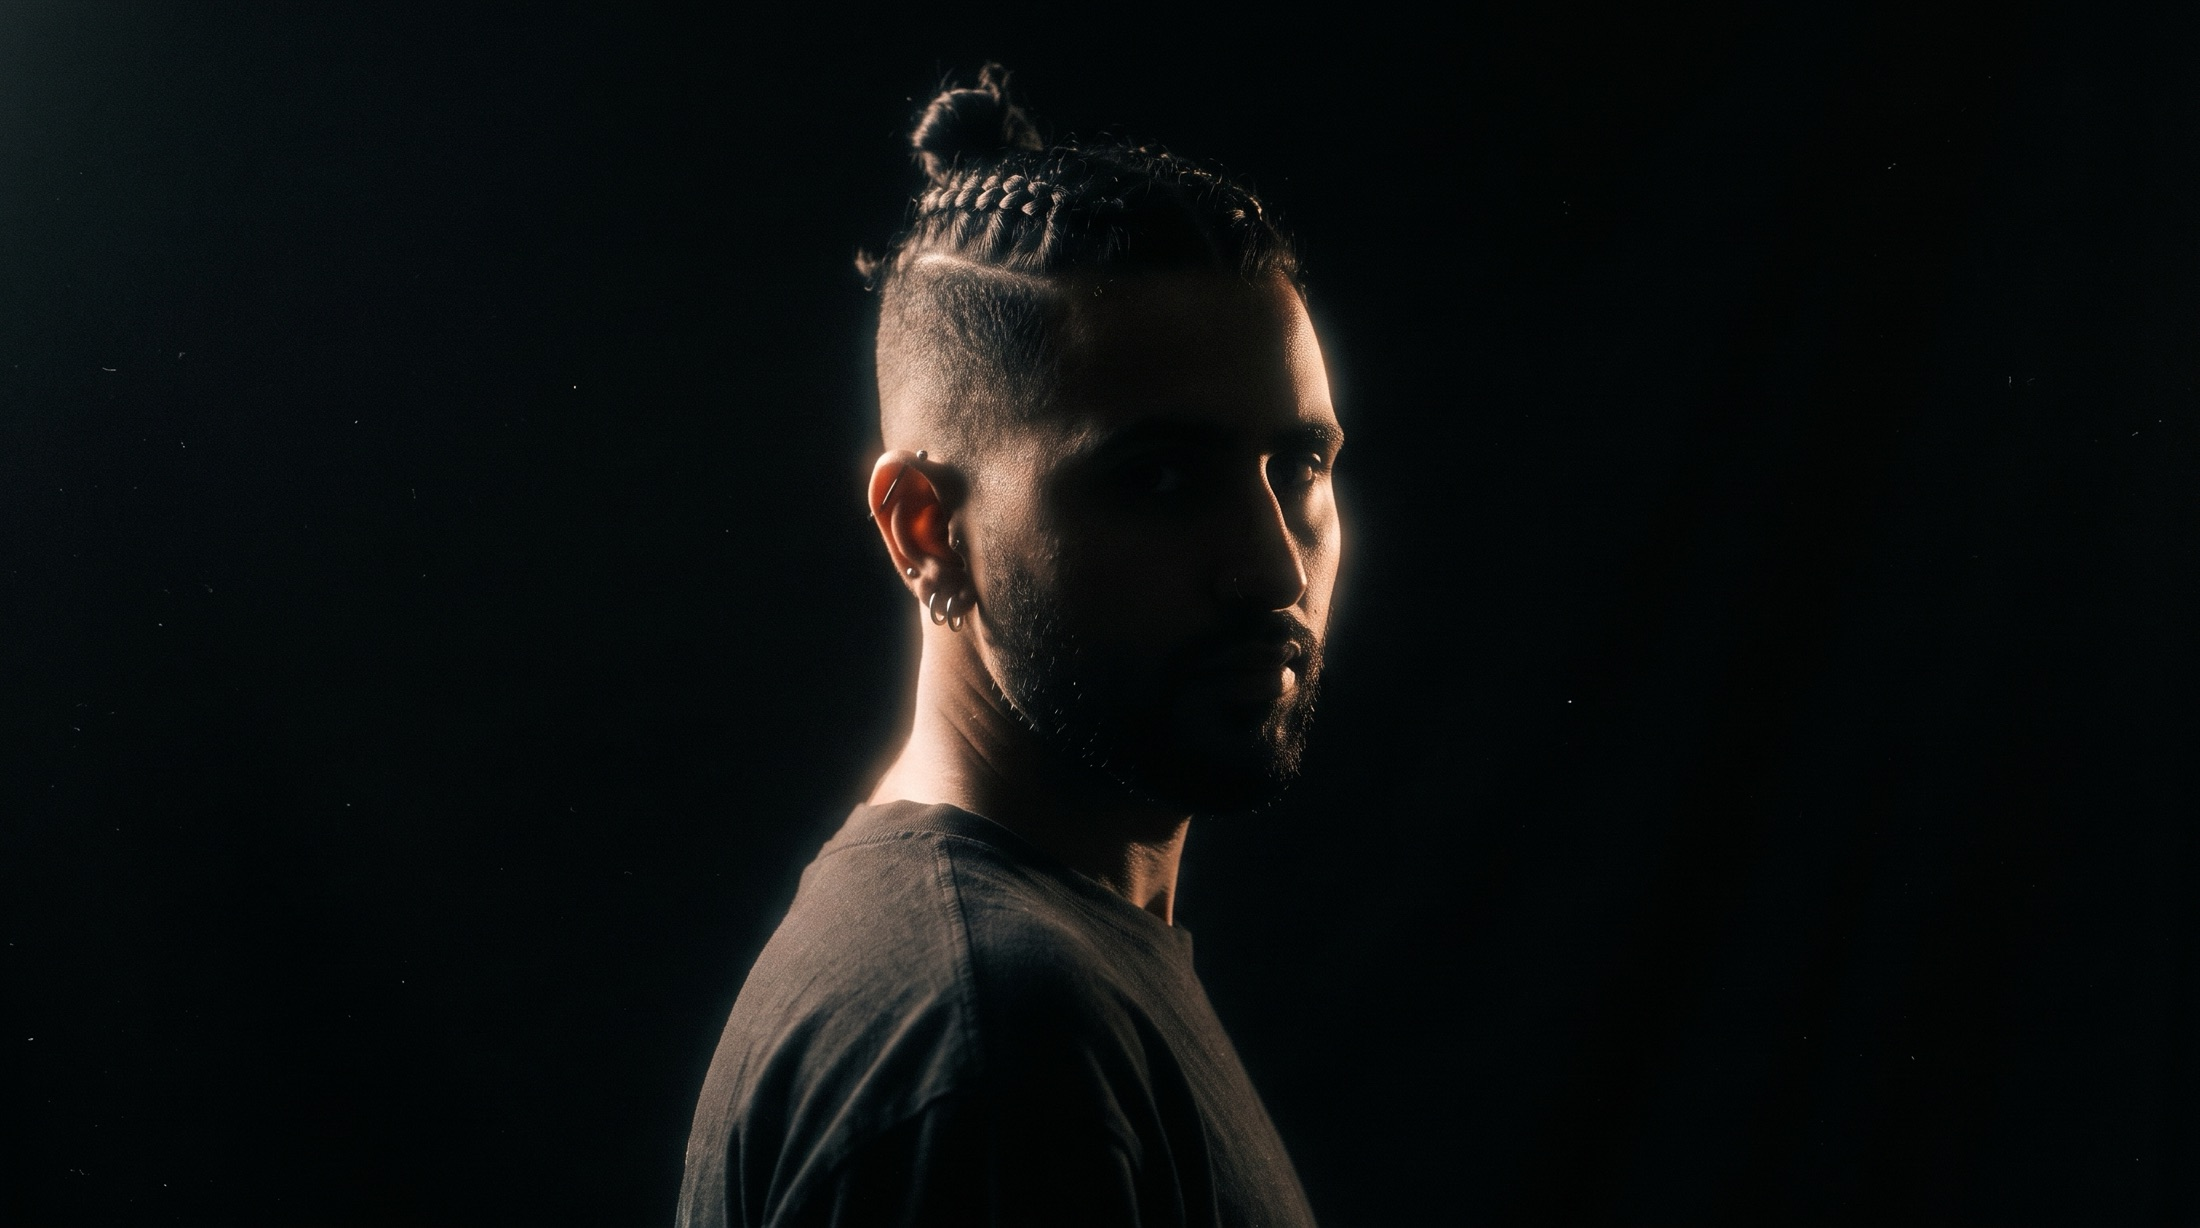
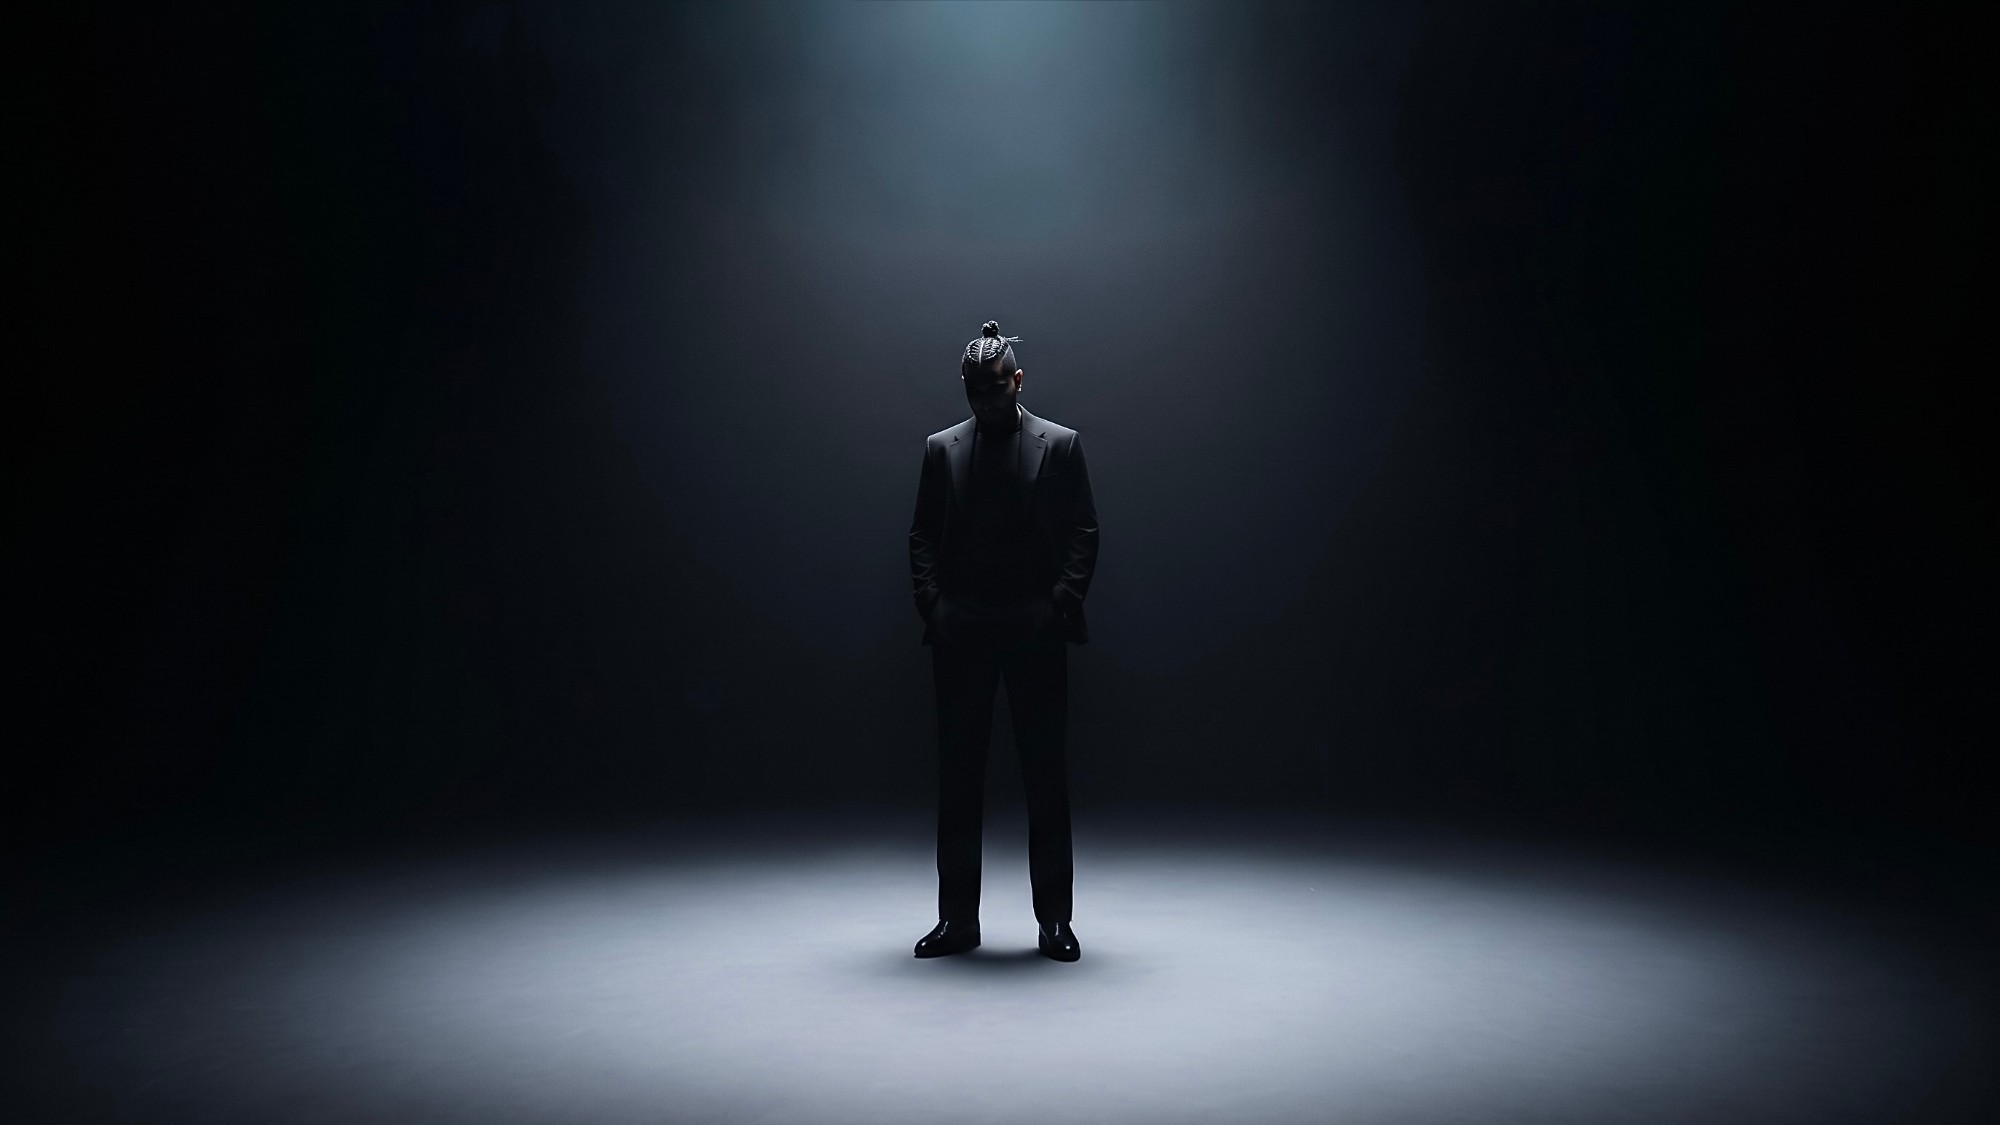
Hero: new spotlight photo, title is now AHMER FAHEEM with Marketing. Creative. Operations. under it, old head cutout removed

diff --git a/index.html b/index.html
@@ -406,13 +406,13 @@ body.mnav-open .mnav-sec{opacity:1;transform:none}
   padding-bottom:11vh;-webkit-user-select:none;user-select:none}
 .au-hero img{position:absolute;inset:0;width:100%;height:100%;object-fit:cover;object-position:center;
   pointer-events:none;-webkit-user-drag:none;user-select:none}
-.au-hero .au-cut{z-index:2}
-.au-hero .au-word{position:absolute;left:0;right:0;top:15%;z-index:1;margin:0;text-align:center;
+.au-hero .au-top{position:absolute;left:0;right:0;top:9%;z-index:1;text-align:center}
+.au-hero .au-word{position:relative;margin:0;text-align:center;
   pointer-events:none;font-family:Archivo,"Helvetica Neue",Arial,sans-serif;font-weight:900;font-stretch:125%;
-  font-variation-settings:'wdth' 125,'wght' 900;font-size:10vw;letter-spacing:-.055em;line-height:.88;
+  font-variation-settings:'wdth' 125,'wght' 900;font-size:9vw;letter-spacing:-.055em;line-height:.88;
   text-transform:uppercase;white-space:nowrap;isolation:isolate}
 .au-hero .au-word .wb{display:none}
-@media(max-width:820px){.au-hero img{inset:auto 0 0 0;height:70%}.au-hero img:not(.au-cut){-webkit-mask-image:linear-gradient(transparent,#000 20%);mask-image:linear-gradient(transparent,#000 20%)}.au-hero .au-word{top:6%;font-size:24vw;line-height:.84;white-space:normal}.au-hero .au-word .wb{display:inline}}
+@media(max-width:820px){.au-hero img{inset:auto 0 0 0;height:70%}.au-hero img:not(.au-cut){-webkit-mask-image:linear-gradient(transparent,#000 20%);mask-image:linear-gradient(transparent,#000 20%)}.au-hero .au-top{top:6%}.au-hero .au-word{font-size:17vw;line-height:.84;white-space:normal}.au-hero .au-word .wb{display:inline}}
 .au-hero .au-word span{display:block;color:#b9b9bd}
 .au-hero .au-word span+span{position:absolute;inset:0;color:#fff;opacity:.28;filter:blur(18px);z-index:-1}
 .au-hero .au-need{position:absolute;inset:0;display:none;align-items:center;justify-content:center;
@@ -420,11 +420,8 @@ body.mnav-open .mnav-sec{opacity:1;transform:none}
   color:#a9a9ac;background:repeating-linear-gradient(45deg,#151515,#151515 12px,#000 12px,#000 24px)}
 .au-hero.au-noimg .au-need{display:flex}
 .au-hero.au-noimg img{display:none}
-.au-hero .au-name{position:relative;z-index:3;color:#fff;font-family:var(--sf);font-weight:600;
-  font-size:clamp(32px,6vw,72px);letter-spacing:-.02em;margin:0;text-align:center;
-  text-shadow:0 2px 24px rgba(0,0,0,.35)}
 .au-hero .au-role{position:relative;z-index:3;color:#fff;font-family:var(--sf);
-  font-weight:400;font-size:clamp(14px,1.6vw,19px);letter-spacing:.01em;margin:14px 0 0;
+  font-weight:400;font-size:clamp(14px,1.6vw,19px);letter-spacing:.01em;margin:18px 0 0;
   text-align:center;text-shadow:0 2px 16px rgba(0,0,0,.35)}
 
 .au{font-family:var(--sf);overflow-x:clip}
@@ -565,10 +562,10 @@ body.mnav-open .mnav-sec{opacity:1;transform:none}
 
 <div class="au-hero" id="auHero" oncontextmenu="return false">
   <img src="assets/landing/hero.jpg" alt="Ahmer Faheem" draggable="false" onerror="this.parentElement.classList.add('au-noimg')">
-  <p class="au-word" aria-hidden="true"><span>THE<br class="wb">OPS<br class="wb">DESK</span><span>THE<br class="wb">OPS<br class="wb">DESK</span></p>
-  <img class="au-cut" src="assets/landing/hero-cutout.webp" alt="" draggable="false">
-  <p class="au-name">Ahmer Faheem</p>
-  <p class="au-role">Marketing. Creative. Operations.</p>
+  <div class="au-top">
+    <h1 class="au-word"><span>AHMER<br class="wb"> FAHEEM</span><span aria-hidden="true">AHMER<br class="wb"> FAHEEM</span></h1>
+    <p class="au-role">Marketing. Creative. Operations.</p>
+  </div>
 </div>
 
 <main class="au">

diff --git a/portfolio.html b/portfolio.html
@@ -406,13 +406,13 @@ body.mnav-open .mnav-sec{opacity:1;transform:none}
   padding-bottom:11vh;-webkit-user-select:none;user-select:none}
 .au-hero img{position:absolute;inset:0;width:100%;height:100%;object-fit:cover;object-position:center;
   pointer-events:none;-webkit-user-drag:none;user-select:none}
-.au-hero .au-cut{z-index:2}
-.au-hero .au-word{position:absolute;left:0;right:0;top:15%;z-index:1;margin:0;text-align:center;
+.au-hero .au-top{position:absolute;left:0;right:0;top:9%;z-index:1;text-align:center}
+.au-hero .au-word{position:relative;margin:0;text-align:center;
   pointer-events:none;font-family:Archivo,"Helvetica Neue",Arial,sans-serif;font-weight:900;font-stretch:125%;
-  font-variation-settings:'wdth' 125,'wght' 900;font-size:10vw;letter-spacing:-.055em;line-height:.88;
+  font-variation-settings:'wdth' 125,'wght' 900;font-size:9vw;letter-spacing:-.055em;line-height:.88;
   text-transform:uppercase;white-space:nowrap;isolation:isolate}
 .au-hero .au-word .wb{display:none}
-@media(max-width:820px){.au-hero img{inset:auto 0 0 0;height:70%}.au-hero img:not(.au-cut){-webkit-mask-image:linear-gradient(transparent,#000 20%);mask-image:linear-gradient(transparent,#000 20%)}.au-hero .au-word{top:6%;font-size:24vw;line-height:.84;white-space:normal}.au-hero .au-word .wb{display:inline}}
+@media(max-width:820px){.au-hero img{inset:auto 0 0 0;height:70%}.au-hero img:not(.au-cut){-webkit-mask-image:linear-gradient(transparent,#000 20%);mask-image:linear-gradient(transparent,#000 20%)}.au-hero .au-top{top:6%}.au-hero .au-word{font-size:17vw;line-height:.84;white-space:normal}.au-hero .au-word .wb{display:inline}}
 .au-hero .au-word span{display:block;color:#b9b9bd}
 .au-hero .au-word span+span{position:absolute;inset:0;color:#fff;opacity:.28;filter:blur(18px);z-index:-1}
 .au-hero .au-need{position:absolute;inset:0;display:none;align-items:center;justify-content:center;
@@ -420,11 +420,8 @@ body.mnav-open .mnav-sec{opacity:1;transform:none}
   color:#a9a9ac;background:repeating-linear-gradient(45deg,#151515,#151515 12px,#000 12px,#000 24px)}
 .au-hero.au-noimg .au-need{display:flex}
 .au-hero.au-noimg img{display:none}
-.au-hero .au-name{position:relative;z-index:3;color:#fff;font-family:var(--sf);font-weight:600;
-  font-size:clamp(32px,6vw,72px);letter-spacing:-.02em;margin:0;text-align:center;
-  text-shadow:0 2px 24px rgba(0,0,0,.35)}
 .au-hero .au-role{position:relative;z-index:3;color:#fff;font-family:var(--sf);
-  font-weight:400;font-size:clamp(14px,1.6vw,19px);letter-spacing:.01em;margin:14px 0 0;
+  font-weight:400;font-size:clamp(14px,1.6vw,19px);letter-spacing:.01em;margin:18px 0 0;
   text-align:center;text-shadow:0 2px 16px rgba(0,0,0,.35)}
 
 .au{font-family:var(--sf);overflow-x:clip}
@@ -565,10 +562,10 @@ body.mnav-open .mnav-sec{opacity:1;transform:none}
 
 <div class="au-hero" id="auHero" oncontextmenu="return false">
   <img src="assets/landing/hero.jpg" alt="Ahmer Faheem" draggable="false" onerror="this.parentElement.classList.add('au-noimg')">
-  <p class="au-word" aria-hidden="true"><span>THE<br class="wb">OPS<br class="wb">DESK</span><span>THE<br class="wb">OPS<br class="wb">DESK</span></p>
-  <img class="au-cut" src="assets/landing/hero-cutout.webp" alt="" draggable="false">
-  <p class="au-name">Ahmer Faheem</p>
-  <p class="au-role">Marketing. Creative. Operations.</p>
+  <div class="au-top">
+    <h1 class="au-word"><span>AHMER<br class="wb"> FAHEEM</span><span aria-hidden="true">AHMER<br class="wb"> FAHEEM</span></h1>
+    <p class="au-role">Marketing. Creative. Operations.</p>
+  </div>
 </div>
 
 <main class="au">
